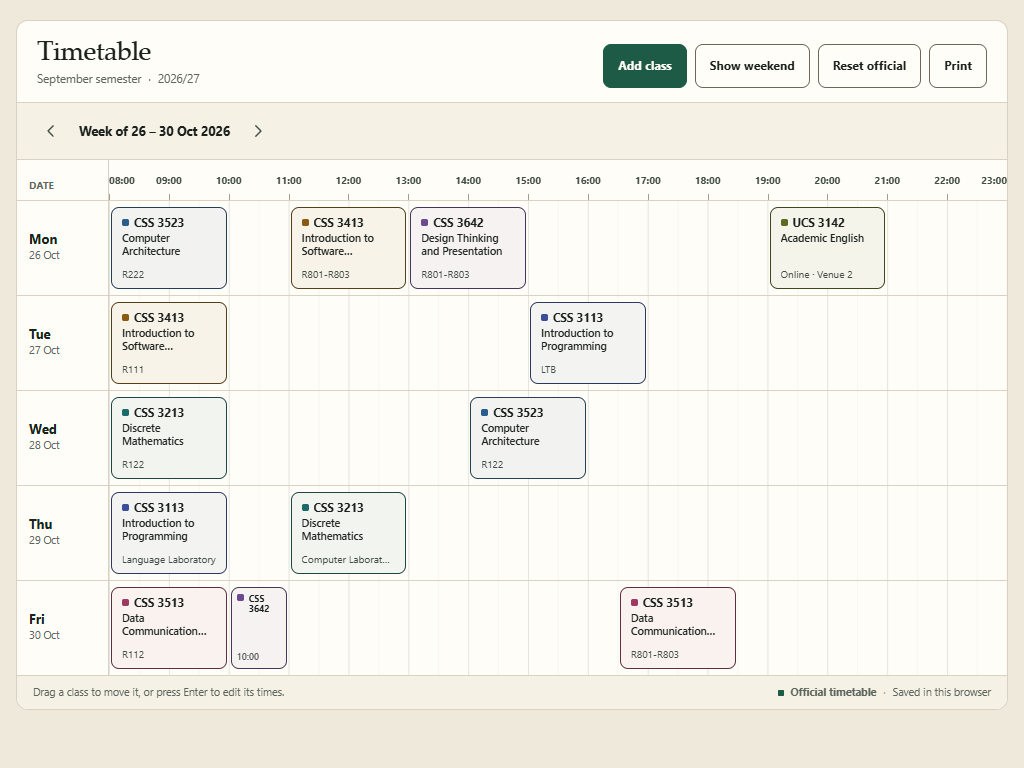
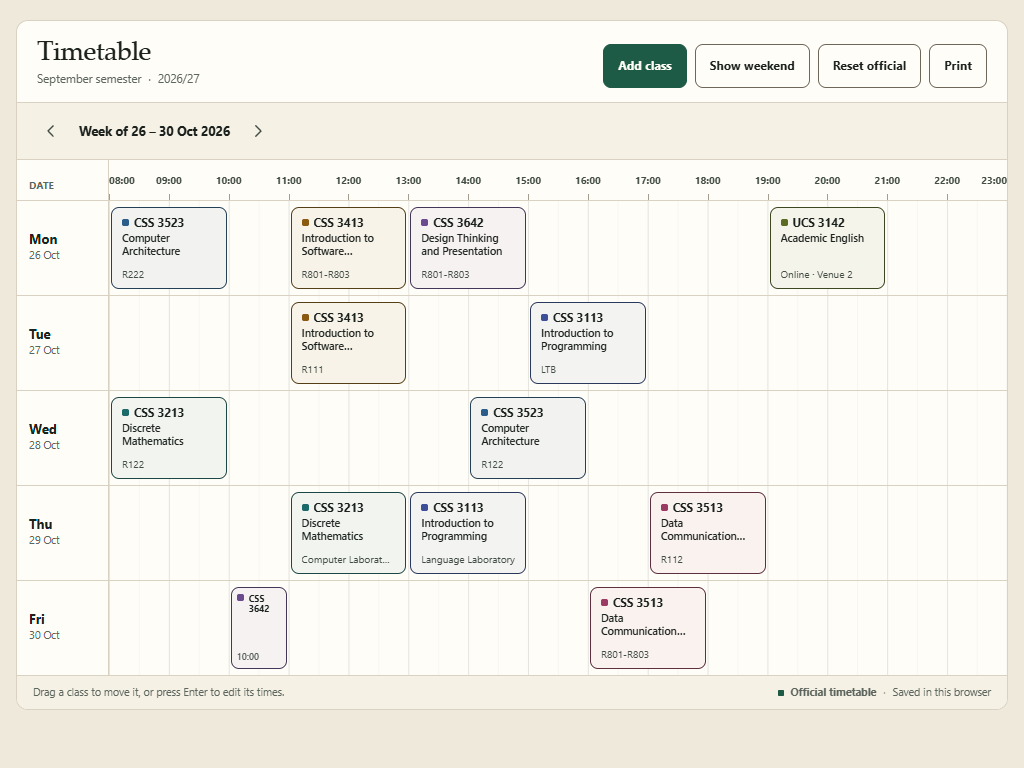
Make the rearranged week the default schedule

diff --git a/js/data.js b/js/data.js
@@ -134,8 +134,8 @@ const OFFICIAL_CLASSES = [
     type: "TUTORIAL",
     subgroup: "G01",
     day: "Tuesday",
-    start: "08:00",
-    end: "10:00",
+    start: "11:00",
+    end: "13:00",
     venue: "R111",
     lecturer: "CHENG HAW YIH",
     online: false,
@@ -180,19 +180,6 @@ const OFFICIAL_CLASSES = [
     online: false,
   },
   {
-    id: "css3113-practical-thu",
-    code: "CSS 3113",
-    name: "Introduction to Programming",
-    type: "PRACTICAL",
-    subgroup: "G01",
-    day: "Thursday",
-    start: "08:00",
-    end: "10:00",
-    venue: "Language Laboratory",
-    lecturer: "KHAIRUNNISA BINTI IBRAHIM",
-    online: false,
-  },
-  {
     id: "css3213-tutorial-thu",
     code: "CSS 3213",
     name: "Discrete Mathematics",
@@ -206,14 +193,27 @@ const OFFICIAL_CLASSES = [
     online: false,
   },
   {
-    id: "css3513-tutorial-fri",
+    id: "css3113-practical-thu",
+    code: "CSS 3113",
+    name: "Introduction to Programming",
+    type: "PRACTICAL",
+    subgroup: "G01",
+    day: "Thursday",
+    start: "13:00",
+    end: "15:00",
+    venue: "Language Laboratory",
+    lecturer: "KHAIRUNNISA BINTI IBRAHIM",
+    online: false,
+  },
+  {
+    id: "css3513-tutorial-thu",
     code: "CSS 3513",
     name: "Data Communication and Networking",
     type: "TUTORIAL/PRACTICAL",
     subgroup: "G01",
-    day: "Friday",
-    start: "08:00",
-    end: "10:00",
+    day: "Thursday",
+    start: "17:00",
+    end: "19:00",
     venue: "R112",
     lecturer: "ABDUL WAHAB FUNSHO ATANDA",
     online: false,
@@ -238,8 +238,8 @@ const OFFICIAL_CLASSES = [
     type: "LECTURE",
     subgroup: "G01",
     day: "Friday",
-    start: "16:30",
-    end: "18:30",
+    start: "16:00",
+    end: "18:00",
     venue: "R801-R803",
     lecturer: "ABDUL WAHAB FUNSHO ATANDA",
     online: false,

diff --git a/js/app.js b/js/app.js
@@ -4,7 +4,7 @@
   const DAY_START = 8 * 60;
   const DAY_END = 23 * 60;
   const SNAP_MINUTES = 30;
-  const STORAGE_KEY = "uts-timetable.2026-27SEP.v1";
+  const STORAGE_KEY = "uts-timetable.2026-27SEP.v2";
   const BACKUP_KEY = `${STORAGE_KEY}.backup`;
   const MAX_WEEK_OFFSET = 52;
 
@@ -436,7 +436,7 @@
     text.setAttribute("role", "status");
     text.innerHTML =
       "<strong>No classes this week.</strong>" +
-      "<span>Add one below, or bring back the 13 classes from UTS TimetableHub.</span>";
+      "<span>Add one below, or bring back your saved week of 13 classes.</span>";
     box.appendChild(text);
 
     const add = document.createElement("button");

diff --git a/index.html b/index.html
@@ -147,7 +147,7 @@
         </div>
         <button class="icon-close" type="button" data-close-dialog aria-label="Close">×</button>
       </div>
-      <p class="modal-copy">This discards every move, edit and new class, and restores the 13 classes from UTS TimetableHub. You can undo right after.</p>
+      <p class="modal-copy">This discards every move, edit and new class, and restores your saved week of 13 classes. You can undo right after.</p>
       <div class="modal-actions">
         <span class="modal-spacer"></span>
         <button class="btn" type="button" data-close-dialog>Keep my changes</button>
